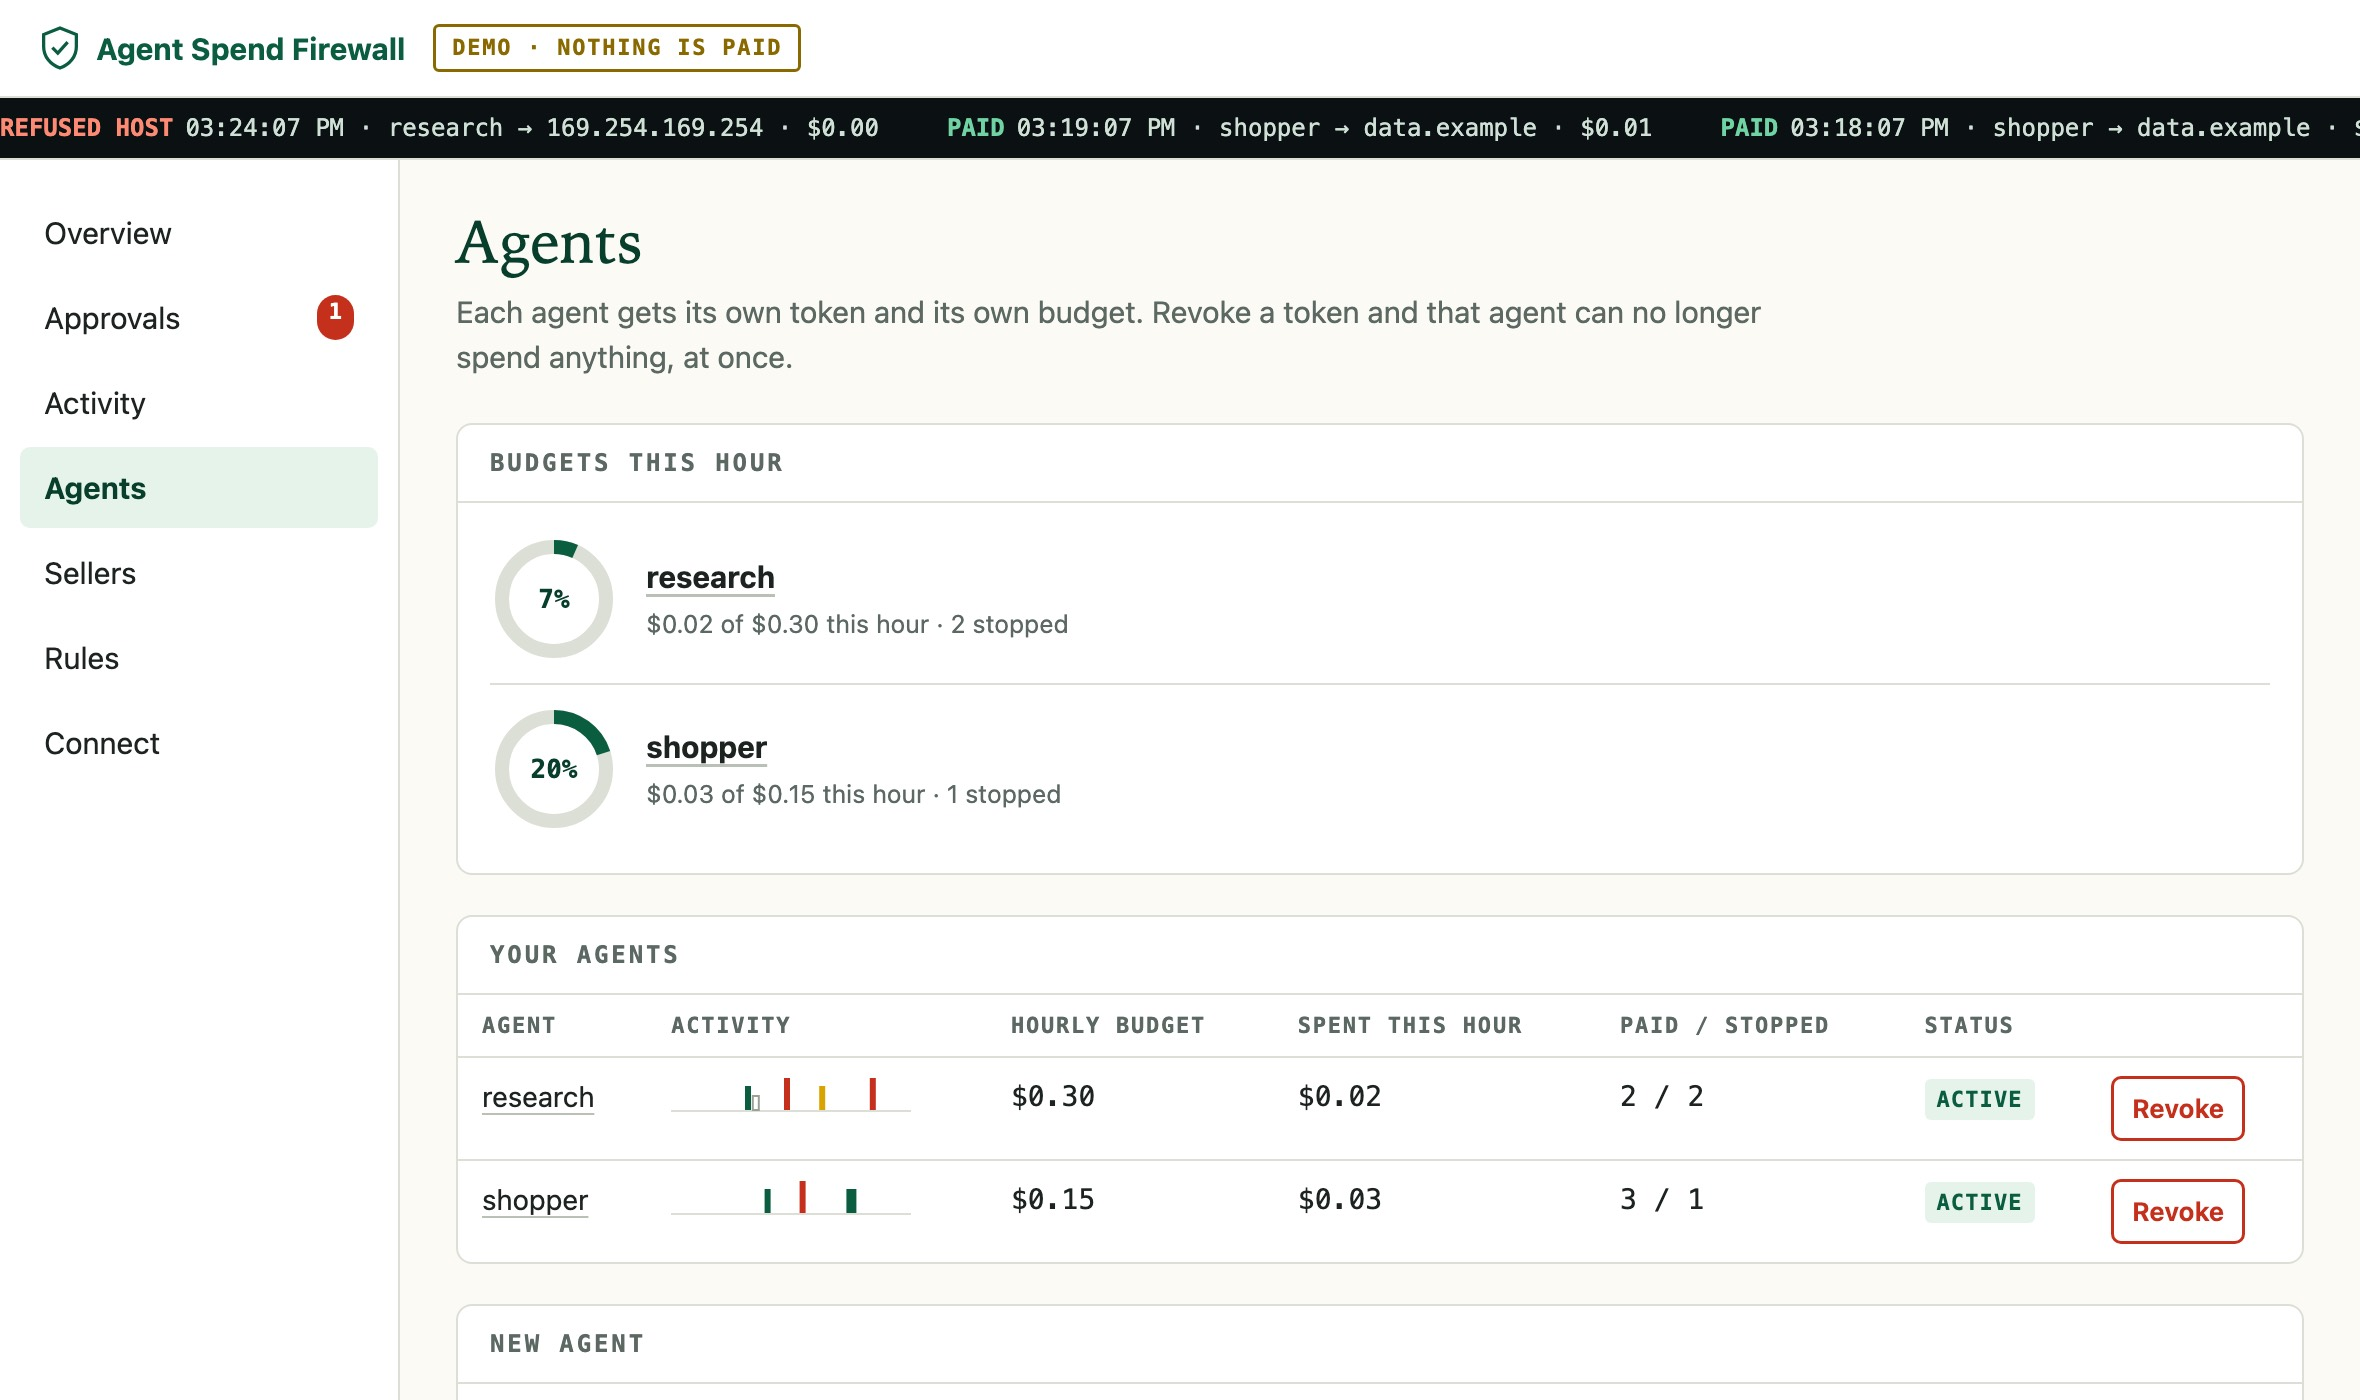
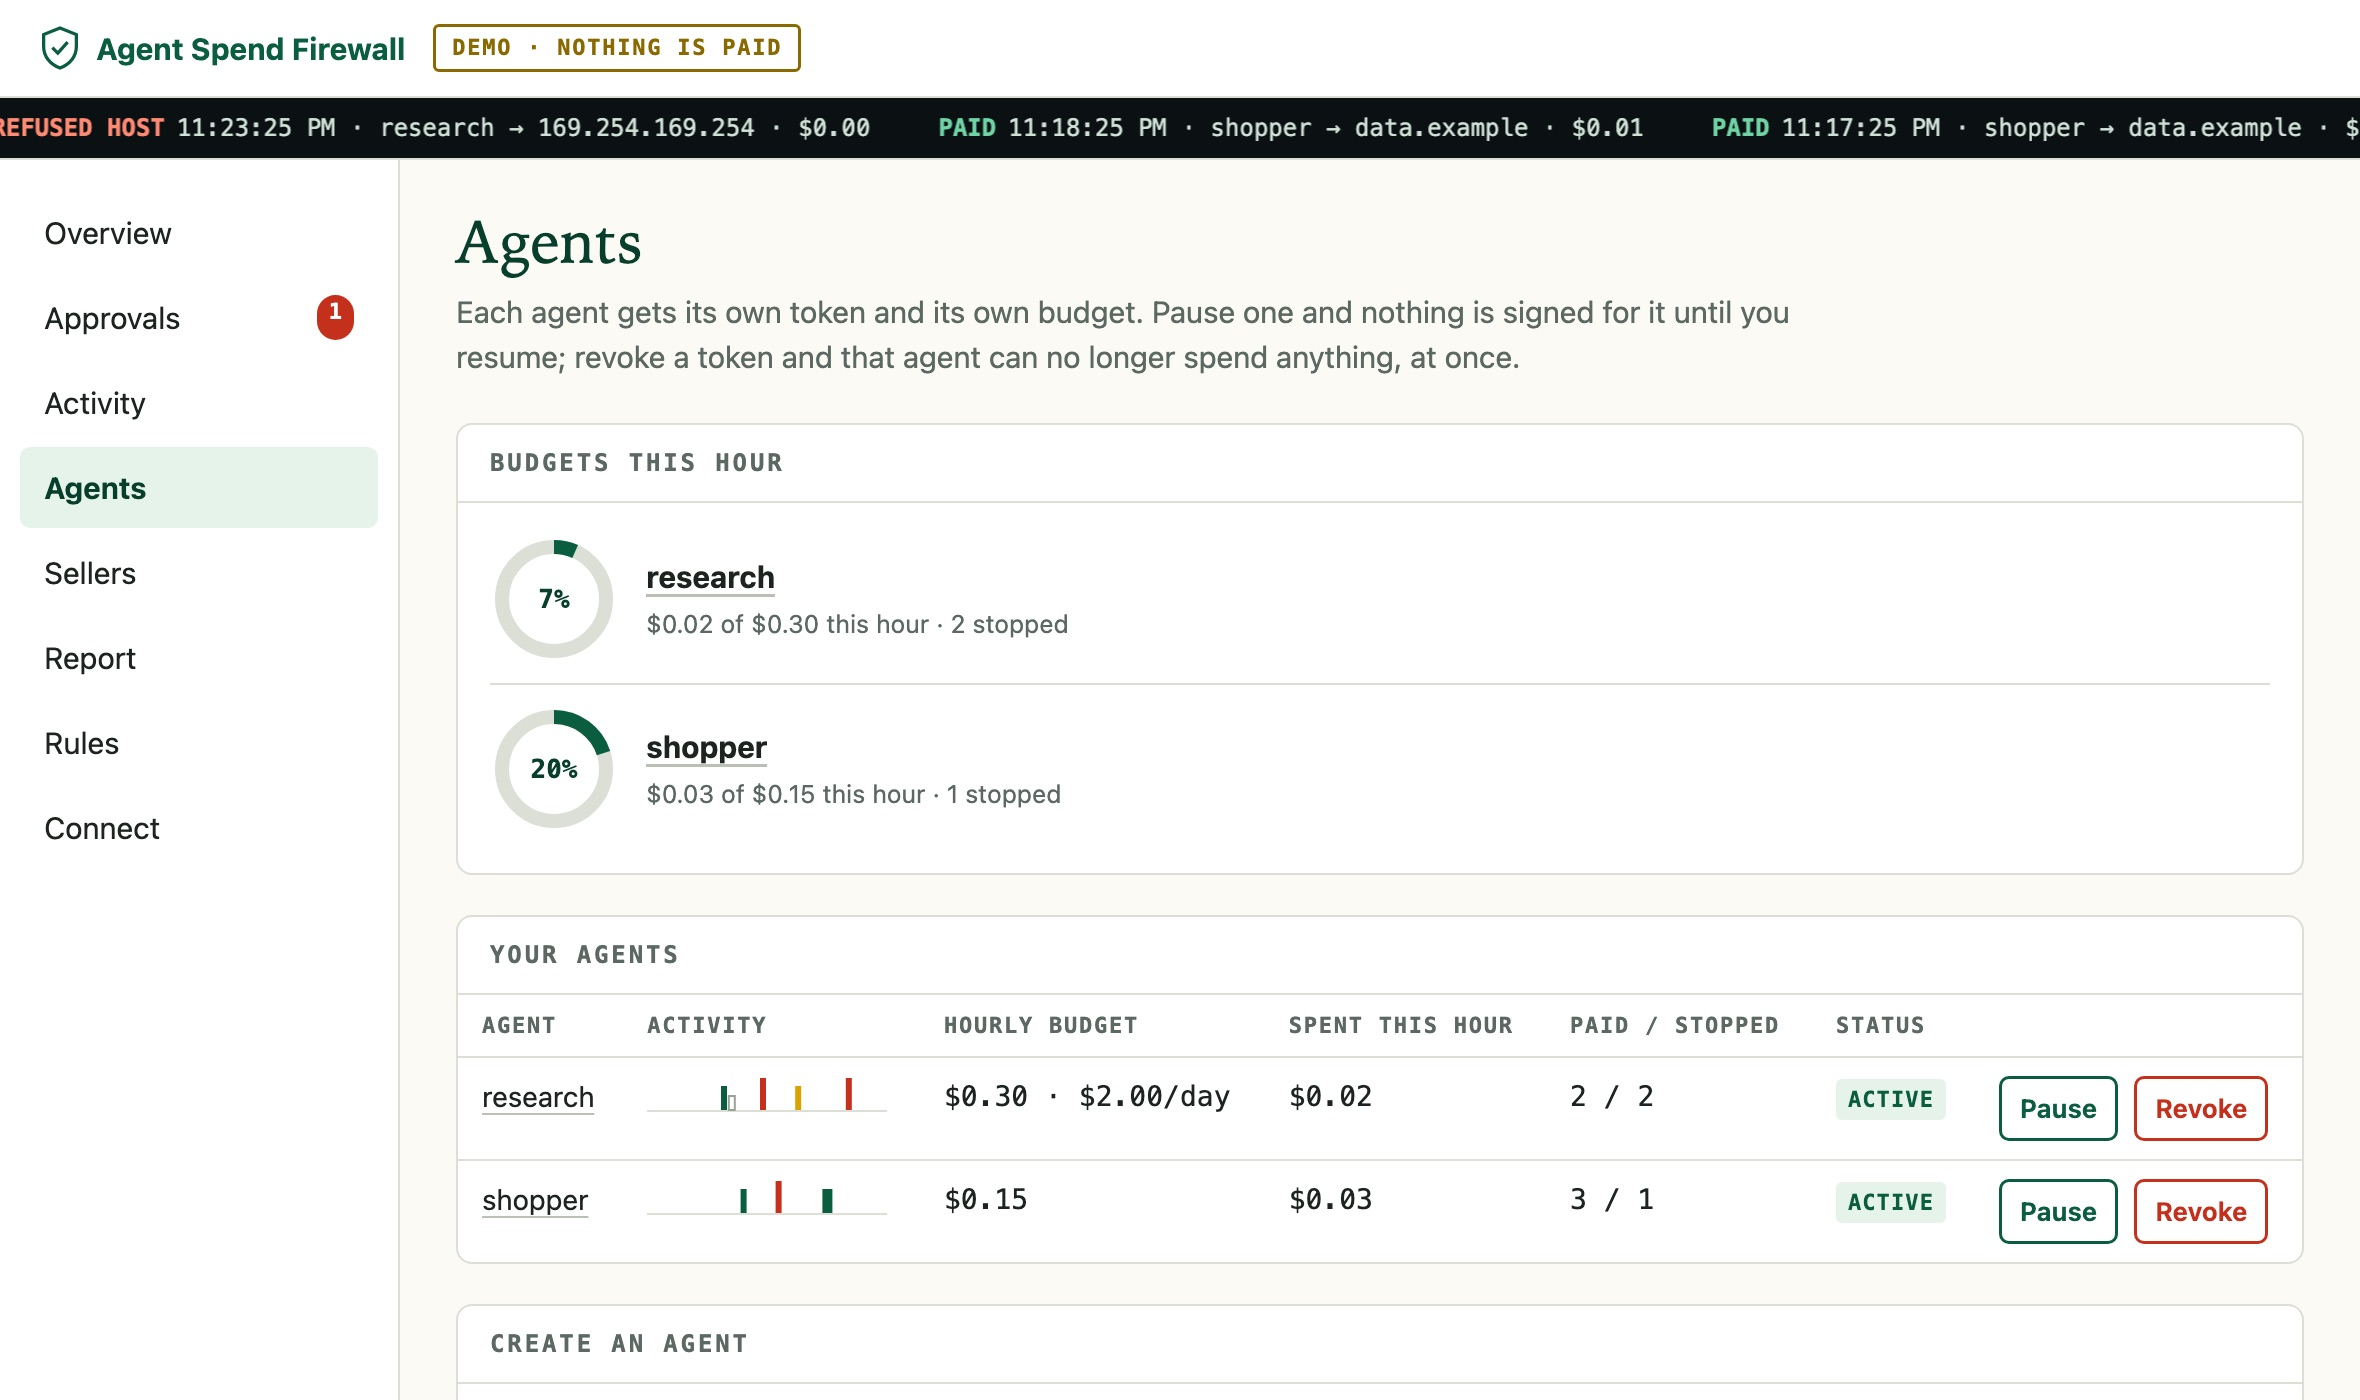
docs: landing page section on the protections between the request and the signature
Recorded transcripts for the listed-price ceiling, pausing an agent and seller limits; new Rules and Agents screenshots; a gap between Pause and Revoke in the console.

Closes #89

diff --git a/docs/index.html b/docs/index.html
@@ -333,7 +333,7 @@ footer{padding:28px 0 48px;color:var(--mute);font-size:13.5px}
     <div class="tnav">
       <button class="on" data-shot="overview" data-alt="Console overview: agents asked for $5.11, $0.05 was paid, $5.01 was stopped"><b>See where the money went</b><span>Your agents asked for $5.11. You paid $0.05. One picture, drawn from the decision log.</span></button>
       <button data-shot="approvals" data-alt="Console approvals: a $0.04 payment waits for Approve or Deny"><b>Say yes or no to big payments</b><span>Larger payments wait for your click. No answer means no payment.</span></button>
-      <button data-shot="agents" data-alt="Console agents: a budget ring for each agent and a Revoke button"><b>Give every agent its own budget</b><span>A ring per agent. One click cuts an agent off for good.</span></button>
+      <button data-shot="agents" data-alt="Console agents: a budget ring for each agent, with Pause and Revoke buttons"><b>Give every agent its own budget</b><span>A ring per agent. Pause one for now, or cut it off for good.</span></button>
       <button data-shot="rules" data-alt="Console rules: sliders and a bar showing which payments are signed, held or refused"><b>Set limits with sliders, not JSON</b><span>The bar shows what is signed at once, what waits for you, and what is refused.</span></button>
       <button data-shot="report" data-alt="Console report: a week on one page, what was paid, what was stopped and why, by agent and by seller"><b>Show a week on one page</b><span>What was paid, what was stopped and why. Print it or save it as a PDF.</span></button>
     </div>
@@ -430,7 +430,8 @@ Receipt: $0.02 paid on Base Sepolia (tx <a href="https://sepolia.basescan.org/tx
       <p class="fig"><b>$5.00</b> is what the cheapest listing asked for at payment time, after advertising $0.01. The firewall refused it.</p></div>
     <pre class="tr">owner ▸ Shopper, practice sellers: "city air quality dataset"
 STOPPED        $0.01  Seller B
-               CAP: payment exceeds per-payment cap
+               ABOVE_MAX: asks $5.00, the agent
+               agreed to at most $0.01
 NOT DELIVERED  $0.01  Seller C
                paid, then the seller answered 500
 BOUGHT         $0.02  Seller D
@@ -447,6 +448,66 @@ after a second time the firewall blocks that seller.</pre>
     <div><dt>Schedules</dt><dd>Repeat a run every 15 minutes, hour, 6 hours or day. Pause or delete any time.</dd></div>
     <div><dt>Run history</dt><dd>Every run is kept with its steps and receipt, and survives a restart.</dd></div>
     <div><dt>Try it</dt><dd><a href="console/index.html#agents">Open the console, Agents</a>, and press Run.</dd></div>
+  </dl>
+</div></section>
+
+<section id="guards" style="padding-top:8px"><div class="wrap">
+  <div class="thead">
+    <h2>Between the request and the signature.</h2>
+    <p class="sub">A cap and a budget stop the big mistakes. These stop the small ones that pass under them: a price that changed after it was listed, one seller taking the whole budget, an agent that keeps trying. Each transcript below was recorded on 20 Nov 2026 against the practice sellers, where no money moves.</p>
+  </div>
+  <div class="tool">
+    <div class="tl"><div class="n">1</div><h3>The listed price is the ceiling</h3><code>max_usd on every request</code>
+      <p>A seller lists one price and asks for another at payment time. If the higher price still fits your limits, an ordinary wallet pays it. Here the agent sends what the listing said, and the firewall refuses anything above it before signing.</p>
+      <p class="fig"><b>$0.04</b> asked for a note listed at $0.02. Your per-payment limit was $0.05, so only this rule stopped it.</p></div>
+    <pre class="tr">owner ▸ Researcher, practice sellers
+BOUGHT         $0.01  Background
+BOUGHT         $0.02  Numbers and dates
+STOPPED        $0.02  Premium analysis
+               ABOVE_MAX: asks $0.04, the agent
+               agreed to at most $0.02
+BOUGHT         $0.01  The other view
+NOT DELIVERED  $0.01  Field report
+
+Receipt: $0.05 paid. 3 bought, 1 stopped
+by the firewall, 1 paid and not delivered.</pre>
+  </div>
+  <div class="tool">
+    <div class="tl"><div class="n">2</div><h3>Pause one agent, or let the firewall do it</h3><code>Pause · auto_pause_after</code>
+      <p>One agent behaves oddly. Press Pause next to it: nothing is signed for that agent until you resume, and the others keep working. Or set a number, and an agent refused that many times in a row is paused for you, with one message to your alert channel.</p>
+      <p class="fig"><b>3</b> refusals in a row paused this agent. It was still paused after a restart; the other agent went on buying.</p></div>
+    <pre class="tr">rule ▸ pause an agent after 3 refusals in a row
+
+my-agent ▸ REFUSED CAP: payment exceeds per-payment cap
+my-agent ▸ REFUSED CAP: payment exceeds per-payment cap
+my-agent ▸ REFUSED CAP: payment exceeds per-payment cap
+firewall ▸ my-agent paused after 3 refusals in a row
+my-agent ▸ REFUSED PAUSED: this agent is paused by the owner
+
+desk-research ▸ BOUGHT $0.02, paid and delivered
+
+owner ▸ Resume
+my-agent ▸ PAID $0.01</pre>
+  </div>
+  <div class="tool">
+    <div class="tl"><div class="n">3</div><h3>No seller takes the whole budget</h3><code>most to one seller · per hour, per day</code>
+      <p>An hourly budget refills every hour. A loop, or a seller that splits one thing into many paid calls, can drain it again and again. A limit per seller counts all your agents together, by the hour and over any 24 hours.</p>
+      <p class="fig"><b>$0.01</b> a day was the limit in this run. The seller had it already, so the next payment to it was refused. With the limit lifted, the same payment went through.</p></div>
+    <pre class="tr">rule ▸ most to one seller: $0.01 in 24 hours
+
+agent ▸ fetch /note/a
+REFUSED HOST_BUDGET: seller daily limit reached
+
+rule ▸ most to one seller: no daily limit
+
+agent ▸ fetch /note/a
+PAID $0.01</pre>
+  </div>
+  <dl class="facts facts4">
+    <div><dt>Stop everything</dt><dd>One button pauses every agent. It stays paused across a restart until you resume.</dd></div>
+    <div><dt>Daily limits</dt><dd>For all agents together and for each one. Counts the last 24 hours and does not refill.</dd></div>
+    <div><dt>New sellers start small</dt><dd>A seller that has never delivered gets small payments only, until its first delivery.</dd></div>
+    <div><dt>Try it</dt><dd><a href="console/index.html#rules">Open the console, Rules</a>. Every one of these is a switch there.</dd></div>
   </dl>
 </div></section>
 

diff --git a/docs/console/index.html b/docs/console/index.html
@@ -923,7 +923,7 @@ tbody tr.fresh{animation:fresh 1.6s ease-out}
   // An agent's own limits: the hourly budget and the optional ceiling over any 24 hours.
   function agentTag(a) { return h("span", { class: "tag " + (a.revoked ? "no" : a.paused ? "cache" : "ok"), text: a.revoked ? "REVOKED" : a.paused ? "PAUSED" : "ACTIVE" }); }
   function pauseBtn(a) {
-    return h("button", { class: "btn sm", id: "agPause-" + a.id, text: a.paused ? "Resume" : "Pause", title: a.paused ? "Let this agent pay again" : "Nothing is signed for this agent until you resume it. The others keep working.",
+    return h("button", { class: "btn sm", style: "margin-right:8px", id: "agPause-" + a.id, text: a.paused ? "Resume" : "Pause", title: a.paused ? "Let this agent pay again" : "Nothing is signed for this agent until you resume it. The others keep working.",
       onclick: function () { api.updateAgent(a.id, { paused: !a.paused }).then(changed, function (e) { alert(e.message); }); } });
   }
   function limitsCard(a) {

diff --git a/src/console.html b/src/console.html
@@ -922,7 +922,7 @@ tbody tr.fresh{animation:fresh 1.6s ease-out}
   // An agent's own limits: the hourly budget and the optional ceiling over any 24 hours.
   function agentTag(a) { return h("span", { class: "tag " + (a.revoked ? "no" : a.paused ? "cache" : "ok"), text: a.revoked ? "REVOKED" : a.paused ? "PAUSED" : "ACTIVE" }); }
   function pauseBtn(a) {
-    return h("button", { class: "btn sm", id: "agPause-" + a.id, text: a.paused ? "Resume" : "Pause", title: a.paused ? "Let this agent pay again" : "Nothing is signed for this agent until you resume it. The others keep working.",
+    return h("button", { class: "btn sm", style: "margin-right:8px", id: "agPause-" + a.id, text: a.paused ? "Resume" : "Pause", title: a.paused ? "Let this agent pay again" : "Nothing is signed for this agent until you resume it. The others keep working.",
       onclick: function () { api.updateAgent(a.id, { paused: !a.paused }).then(changed, function (e) { alert(e.message); }); } });
   }
   function limitsCard(a) {
